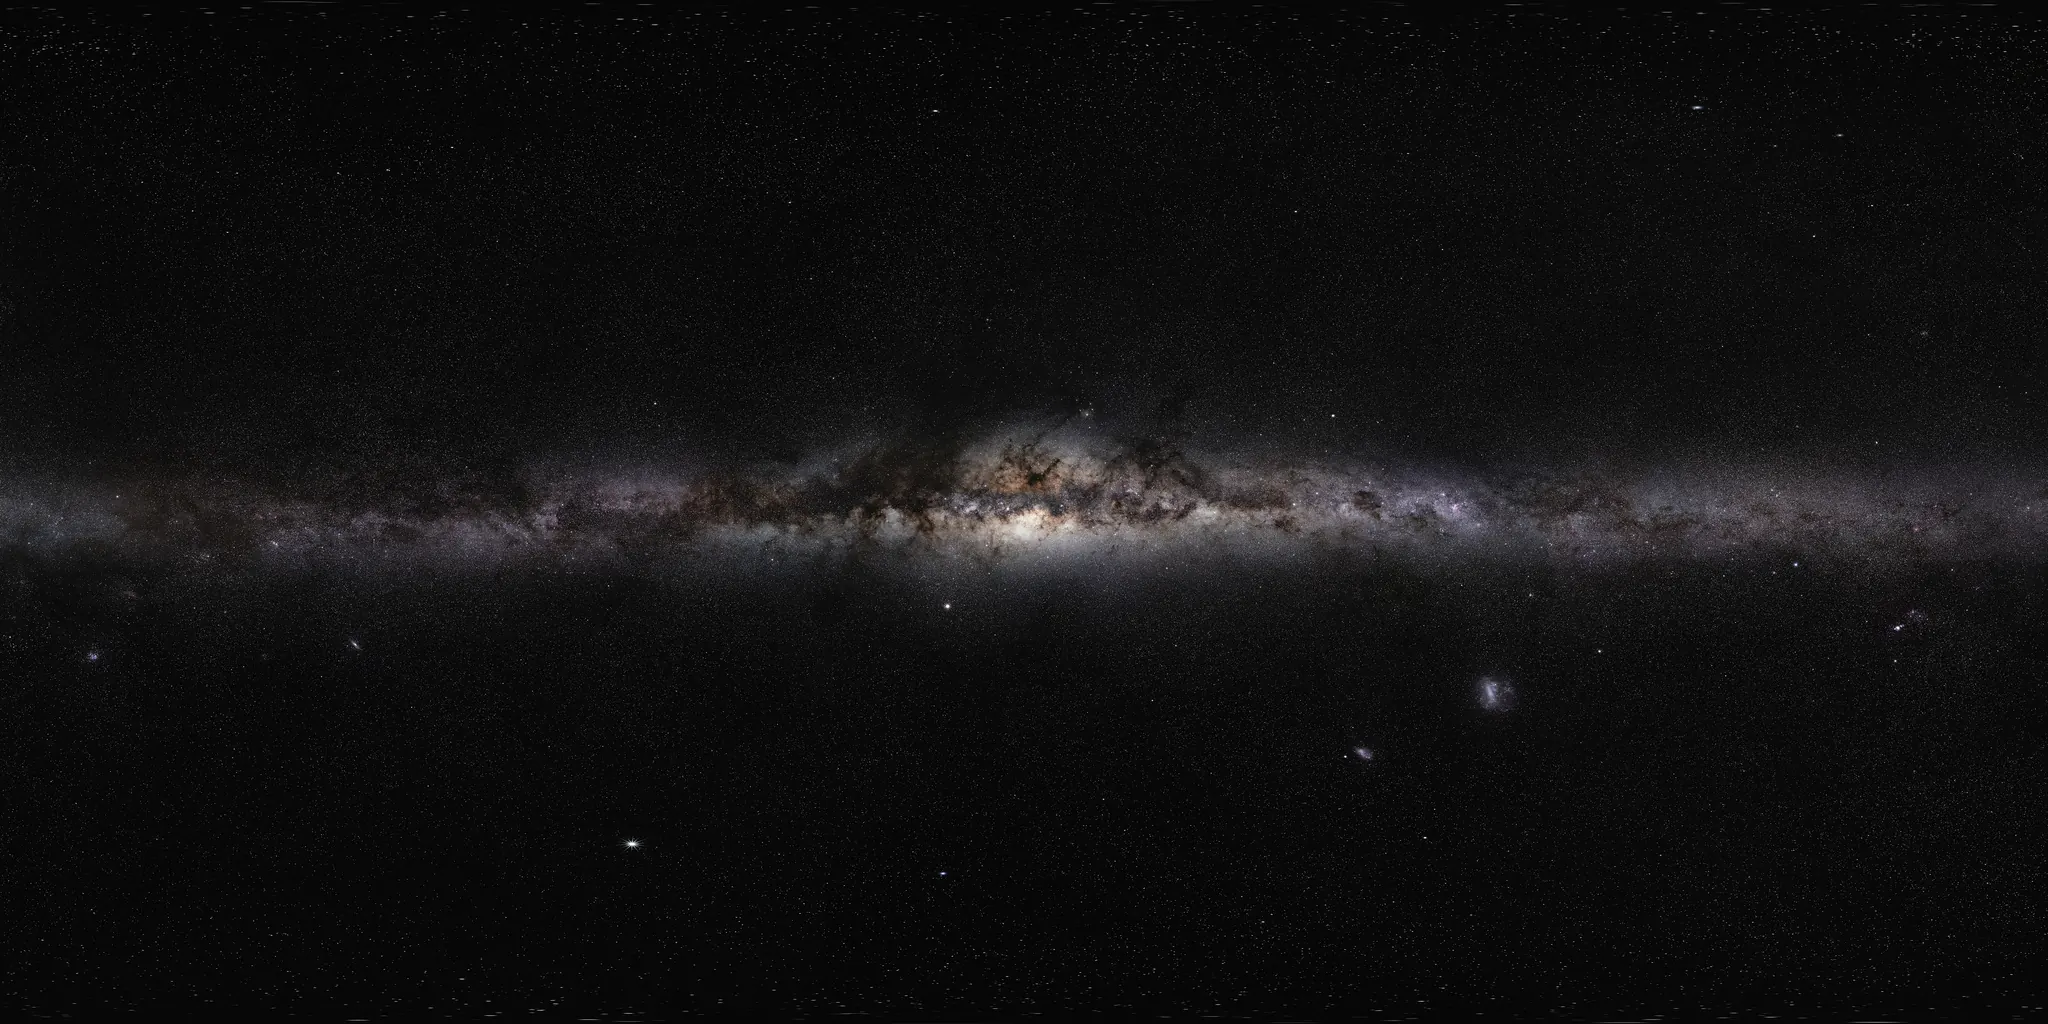
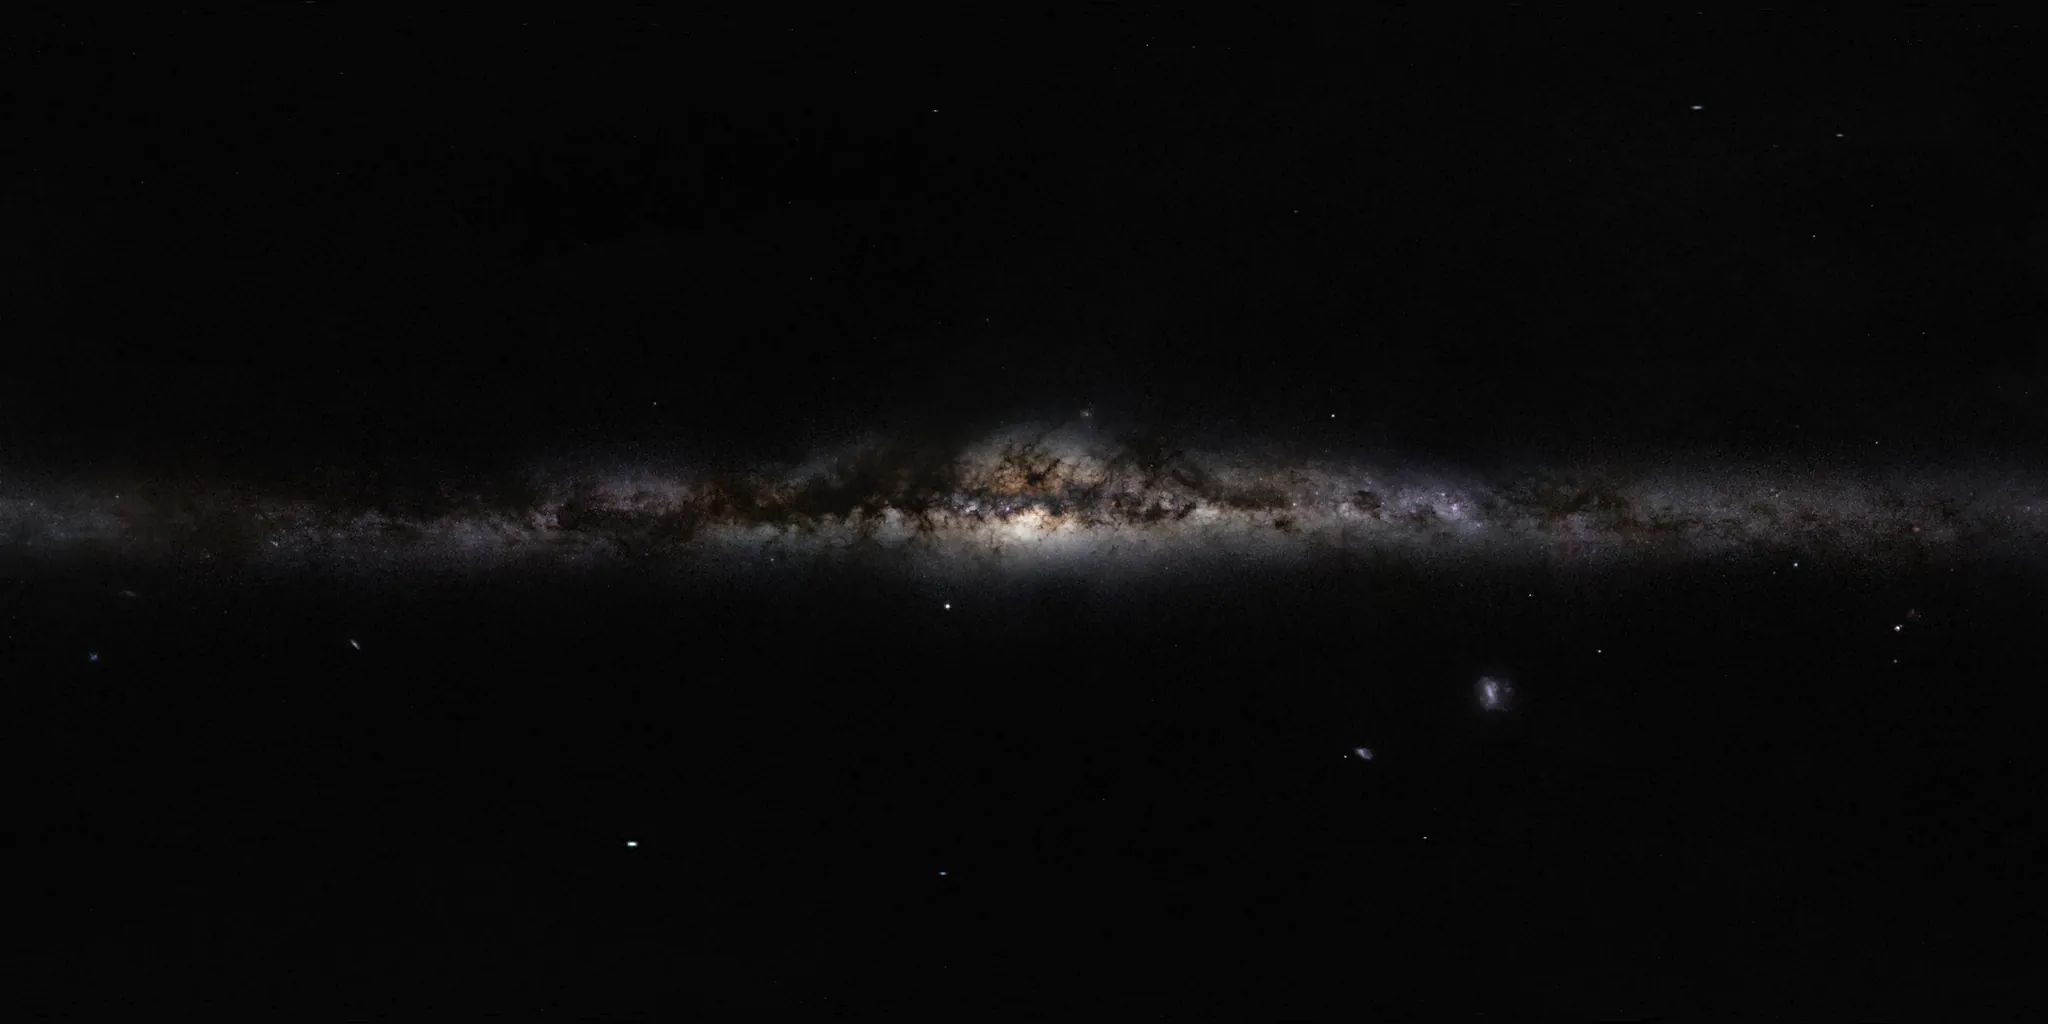
feat(web): add a day and night toggle for the globe
Show a Day and night tile next to Globe view while the globe is on, and a
matching command. Reuse the core subsolar point, keep the twilight tint and
daylight falloff to satellite imagery, let the theme's sky rise from the
horizon while zooming in, and drop the panorama's faint stars, which smear
near the galactic poles.

Changed region(s): [[0.0, 0.375, 1.0, 0.6562]]

diff --git a/apps/web/src/components/map/layers/globe/sunPosition.ts b/apps/web/src/components/map/layers/globe/sunPosition.ts
@@ -1,10 +1,8 @@
+import { subsolarPoint } from "@openmapx/core";
+
 /**
- * Where the Sun is overhead, using the U.S. Naval Observatory's low-precision
- * almanac (about 0.01° between 1950 and 2050):
- * https://aa.usno.navy.mil/faq/sun_approx
- *
- * Vectors use MapLibre's globe frame, where a point at longitude λ and
- * latitude φ on the unit sphere is (sin λ·cos φ, sin φ, cos λ·cos φ).
+ * Where the Sun and the sky are, in MapLibre's globe frame: a point at
+ * longitude λ and latitude φ on the unit sphere is (sin λ·cos φ, sin φ, cos λ·cos φ).
  */
 
 const RADIANS = Math.PI / 180;
@@ -13,35 +11,11 @@ const UNIX_EPOCH_JULIAN_DAY = 2440587.5;
 const J2000_JULIAN_DAY = 2451545;
 const MS_PER_DAY = 86_400_000;
 
-function daysSinceJ2000(date: Date): number {
-  return date.getTime() / MS_PER_DAY + UNIX_EPOCH_JULIAN_DAY - J2000_JULIAN_DAY;
-}
-
-function wrapRadians(angle: number): number {
-  const wrapped = angle % TWO_PI;
-  return wrapped < 0 ? wrapped + TWO_PI : wrapped;
-}
-
 /** Greenwich mean sidereal time as an angle in [0, 2π). */
 export function greenwichSiderealAngle(date: Date): number {
-  return wrapRadians((280.46061837 + 360.98564736629 * daysSinceJ2000(date)) * RADIANS);
-}
-
-/** The point on Earth with the Sun at its zenith, in degrees, longitude in [-180, 180). */
-export function subsolarPoint(date: Date): { lng: number; lat: number } {
-  const n = daysSinceJ2000(date);
-  const meanAnomaly = (357.529 + 0.98560028 * n) * RADIANS;
-  const meanLongitude = 280.459 + 0.98564736 * n;
-  const eclipticLongitude =
-    (meanLongitude + 1.915 * Math.sin(meanAnomaly) + 0.02 * Math.sin(2 * meanAnomaly)) * RADIANS;
-  const obliquity = (23.439 - 0.00000036 * n) * RADIANS;
-  const declination = Math.asin(Math.sin(obliquity) * Math.sin(eclipticLongitude));
-  const rightAscension = Math.atan2(
-    Math.cos(obliquity) * Math.sin(eclipticLongitude),
-    Math.cos(eclipticLongitude),
-  );
-  const longitude = wrapRadians(rightAscension - greenwichSiderealAngle(date) + Math.PI) - Math.PI;
-  return { lng: longitude / RADIANS, lat: declination / RADIANS };
+  const days = date.getTime() / MS_PER_DAY + UNIX_EPOCH_JULIAN_DAY - J2000_JULIAN_DAY;
+  const angle = ((280.46061837 + 360.98564736629 * days) * RADIANS) % TWO_PI;
+  return angle < 0 ? angle + TWO_PI : angle;
 }
 
 /** Unit vector from Earth's centre towards the Sun, in the globe frame. */

diff --git a/apps/web/src/components/map/layer-selector/layerPreviewSvgs.tsx b/apps/web/src/components/map/layer-selector/layerPreviewSvgs.tsx
@@ -340,3 +340,62 @@ export const globePreview: ReactNode = (
     <circle cx="40" cy="40" r="27" fill="none" stroke="#88c6fc" strokeWidth="1.1" opacity="0.5" />
   </svg>
 );
+
+export const globeLightingPreview: ReactNode = (
+  <svg
+    viewBox="0 0 80 80"
+    preserveAspectRatio="xMidYMid slice"
+    xmlns="http://www.w3.org/2000/svg"
+    width="100%"
+    height="100%"
+    role="img"
+    aria-hidden="true"
+  >
+    <defs>
+      <radialGradient id="globeLightingSun" cx="0.5" cy="0.5" r="0.5">
+        <stop offset="0" stopColor="#fff6dc" />
+        <stop offset="0.25" stopColor="#ffb45a" stopOpacity="0.7" />
+        <stop offset="1" stopColor="#ff8a2a" stopOpacity="0" />
+      </radialGradient>
+      <linearGradient id="globeLightingDay" x1="0" y1="0" x2="1" y2="0">
+        <stop offset="0" stopColor="#2a72b8" />
+        <stop offset="0.45" stopColor="#1f5f9e" />
+        <stop offset="0.58" stopColor="#c46a2c" stopOpacity="0.9" />
+        <stop offset="0.66" stopColor="#0b1a2e" />
+        <stop offset="1" stopColor="#060d18" />
+      </linearGradient>
+    </defs>
+    <rect x="-2" y="-2" width="84" height="84" fill="#03060c" />
+    <g fill="#dce8f8" opacity="0.55">
+      <circle cx="70" cy="66" r="0.6" />
+      <circle cx="64" cy="10" r="0.7" />
+      <circle cx="74" cy="38" r="0.5" />
+    </g>
+    <circle cx="11" cy="13" r="12" fill="url(#globeLightingSun)" />
+    <circle cx="44" cy="44" r="29" fill="#4d94ff" opacity="0.14" />
+    <circle cx="44" cy="44" r="27" fill="url(#globeLightingDay)" />
+    {/* land on the day side */}
+    <g fill="#3d8c5c">
+      <path d="M24 30l8-5 7 3 4 5-6 4-7-1-5-3Z" />
+      <path d="M22 48l7 1 3 6-3 7-6-2-2-7Z" />
+    </g>
+    {/* city lights on the night side */}
+    <g fill="#ffd27a">
+      <circle cx="56" cy="32" r="0.9" />
+      <circle cx="60" cy="36" r="0.7" />
+      <circle cx="58" cy="44" r="1" />
+      <circle cx="63" cy="48" r="0.6" />
+      <circle cx="55" cy="54" r="0.8" />
+      <circle cx="66" cy="40" r="0.6" />
+      <circle cx="61" cy="57" r="0.7" />
+    </g>
+    <path
+      d="M24 22a27 27 0 0 1 20-5"
+      fill="none"
+      stroke="#bfe0ff"
+      strokeWidth="1.4"
+      strokeLinecap="round"
+      opacity="0.75"
+    />
+  </svg>
+);

diff --git a/apps/web/src/components/map/layers/globe/sunPosition.test.ts b/apps/web/src/components/map/layers/globe/sunPosition.test.ts
@@ -1,35 +1,22 @@
+import { subsolarPoint } from "@openmapx/core";
 import { describe, expect, it } from "vitest";
-import { greenwichSiderealAngle, subsolarPoint, sunDirection } from "./sunPosition";
+import { greenwichSiderealAngle, sunDirection } from "./sunPosition";
 
 const RADIANS = Math.PI / 180;
 
-describe("subsolarPoint", () => {
-  it("puts the subsolar point on the equator at the March equinox", () => {
-    expect(subsolarPoint(new Date("2026-03-20T14:46:00Z")).lat).toBeCloseTo(0, 1);
-  });
-
-  it("reaches the tropics at the solstices", () => {
-    expect(subsolarPoint(new Date("2026-06-21T08:24:00Z")).lat).toBeCloseTo(23.44, 1);
-    expect(subsolarPoint(new Date("2026-12-21T20:50:00Z")).lat).toBeCloseTo(-23.44, 1);
-  });
-
-  it("follows the equation of time at noon UTC", () => {
-    // Early November the Sun runs about 16.4 minutes fast, so it has already
-    // crossed Greenwich at 12:00 UTC; mid-February it runs about 14.2 minutes slow.
-    expect(subsolarPoint(new Date("2026-11-03T12:00:00Z")).lng).toBeCloseTo(-4.1, 0);
-    expect(subsolarPoint(new Date("2026-02-11T12:00:00Z")).lng).toBeCloseTo(3.55, 0);
-  });
-
-  it("keeps the longitude in [-180, 180) across the antimeridian", () => {
-    const { lng } = subsolarPoint(new Date("2026-11-03T00:00:00Z"));
-    expect(lng).toBeGreaterThanOrEqual(-180);
-    expect(lng).toBeLessThan(180);
-    expect(Math.abs(lng)).toBeGreaterThan(170);
-  });
-});
-
 describe("sunDirection", () => {
-  it("returns the subsolar point as a unit vector in MapLibre's globe frame", () => {
+  it("follows the seasons", () => {
+    expect(sunDirection(new Date("2026-06-21T08:24:00Z"))[1]).toBeCloseTo(
+      Math.sin(23.44 * RADIANS),
+      3,
+    );
+    expect(sunDirection(new Date("2026-12-21T20:50:00Z"))[1]).toBeCloseTo(
+      -Math.sin(23.44 * RADIANS),
+      3,
+    );
+  });
+
+  it("points at the subsolar point in MapLibre's globe frame", () => {
     const date = new Date("2026-06-21T12:00:00Z");
     const { lng, lat } = subsolarPoint(date);
     const expected = [

diff --git a/apps/web/src/components/command-palette/useCommandSources.test.tsx b/apps/web/src/components/command-palette/useCommandSources.test.tsx
@@ -2,7 +2,7 @@
 
 import { IntegrationRegistry } from "@openmapx/integration-framework";
 import { IntegrationRegistryContext } from "@openmapx/integration-framework/react";
-import { renderHook } from "@testing-library/react";
+import { act, renderHook } from "@testing-library/react";
 import type { ReactNode } from "react";
 import { afterEach, describe, expect, it, vi } from "vitest";
 
@@ -38,6 +38,7 @@ import {
   isOverlayActive,
   type OverlayStoreBase,
   registerOverlayEntry,
+  useLayerStore,
 } from "@openmapx/core";
 import { useCommandSources } from "./useCommandSources";
 
@@ -137,5 +138,30 @@ describe("useCommandSources map orientation commands", () => {
 
     expect(out.find((c) => c.id === "actions.alignToStreets")).toBeUndefined();
     expect(out.find((c) => c.id === "actions.northUp")).toBeUndefined();
+  });
+});
+
+describe("useCommandSources globe commands", () => {
+  afterEach(() => {
+    act(() => useLayerStore.setState({ globeView: false, globeLighting: true }));
+  });
+
+  it("offers day and night only with globe view and toggles it", () => {
+    useLayerStore.setState({ globeView: false, globeLighting: true });
+    const offGlobe = renderHook(() => useCommandSources({ openShortcutsDialog: () => {} }), {
+      wrapper,
+    }).result.current;
+    expect(offGlobe.find((c) => c.id === "layers.globe-lighting")).toBeUndefined();
+
+    act(() => useLayerStore.setState({ globeView: true }));
+    const { result } = renderHook(() => useCommandSources({ openShortcutsDialog: () => {} }), {
+      wrapper,
+    });
+    const command = result.current.find((c) => c.id === "layers.globe-lighting");
+    expect(command?.isActive?.()).toBe(true);
+    act(() => {
+      command?.run();
+    });
+    expect(useLayerStore.getState().globeLighting).toBe(false);
   });
 });

diff --git a/apps/web/src/components/map/layers/globe/globeShaders.ts b/apps/web/src/components/map/layers/globe/globeShaders.ts
@@ -100,7 +100,10 @@ void main() {
     vec3 galaxy = sampleWrapped(u_milky_way, galacticUv(u_galactic * ray)).rgb;
     space += pow(max(galaxy - 0.035, vec3(0.0)), vec3(1.4)) * 0.6 * u_galaxy;
   }
-  vec3 background = mix(u_theme_sky, space, u_space);
+  // Zooming in, the theme's sky rises from the horizon as space recedes
+  // upwards, as it does seen from a descending spacecraft. Fully space at u_space = 1.
+  float spaceWeight = clamp(2.0 * u_space - exp(-above / 0.08), 0.0, 1.0);
+  vec3 background = mix(u_theme_sky, space, spaceWeight);
   background += (glowColour * haze + vec3(0.72, 0.86, 1.0) * rim) * sunSide * u_surface;
   background += sunGlow(ray) * u_lighting * u_surface;
 
@@ -111,7 +114,7 @@ void main() {
   float day = smoothstep(-0.10, 0.12, mu);
   // Imagery dims towards the terminator like real daylight; maps stay evenly
   // lit across the whole day side so they remain legible.
-  float daylight = mix(1.0, 0.55 + 0.45 * sqrt(max(mu, 0.0)), u_day_falloff);
+  float daylight = mix(1.0, 0.75 + 0.25 * sqrt(max(mu, 0.0)), u_day_falloff);
   float brightness = u_night + (1.0 - u_night) * day * daylight;
   brightness = mix(1.0, brightness, u_lighting);
 
@@ -119,7 +122,9 @@ void main() {
   // limb haze, then city lights as emitted light.
   vec3 colour = vec3(0.0);
   float alpha = 1.0 - brightness;
-  float tint = exp(-pow(mu / 0.07, 2.0)) * u_lighting * 0.16;
+  // A warm band at the terminator reads as sunset on imagery, but as a
+  // muddy stain on a cartographic map.
+  float tint = exp(-pow(mu / 0.045, 2.0)) * u_lighting * u_day_falloff * 0.05;
   colour = TWILIGHT * tint + colour * (1.0 - tint);
   alpha = tint + alpha * (1.0 - tint);
   float limbHaze = exp(-5.0 * halfChord) * 0.5 * mix(1.0, 0.2 + 0.8 * smoothstep(-0.2, 0.3, mu), u_lighting);

diff --git a/apps/web/src/components/map/layer-selector/LayerDetailsPanel.tsx b/apps/web/src/components/map/layer-selector/LayerDetailsPanel.tsx
@@ -12,7 +12,7 @@ import { useTranslations } from "next-intl";
 import type { ReactNode } from "react";
 import { useOverlayZoomGate } from "@/integration-api/overlay/overlayZoomGate";
 import { LayerDetailsTile } from "./LayerDetailsTile";
-import { globePreview } from "./layerPreviewSvgs";
+import { globeLightingPreview, globePreview } from "./layerPreviewSvgs";
 import { BASE_LAYER_OPTIONS } from "./layerSelectorConfig";
 import type { GeneratedLayerEntry } from "./useLayerSelectorConfig";
 import { useLayerSelectorConfig } from "./useLayerSelectorConfig";
@@ -98,6 +98,8 @@ export function LayerDetailsPanel({ onClose, variant = "popover" }: LayerDetails
   const setActiveLayer = useLayerStore((s) => s.setActiveLayer);
   const globeView = useLayerStore((s) => s.globeView);
   const setGlobeView = useLayerStore((s) => s.setGlobeView);
+  const globeLighting = useLayerStore((s) => s.globeLighting);
+  const setGlobeLighting = useLayerStore((s) => s.setGlobeLighting);
   const measureActive = useMeasurementStore((s) => s.isActive);
   const travelTimeActive = useTravelTimeStore((s) => s.isActive);
   const { isAvailable } = useCapabilities();
@@ -193,6 +195,14 @@ export function LayerDetailsPanel({ onClose, variant = "popover" }: LayerDetails
         labelWidth={labelWidth}
         onClick={() => setGlobeView(!globeView)}
       />
+      {globeView ? (
+        <LayerDetailsTile
+          item={{ preview: globeLightingPreview, selected: globeLighting }}
+          label={t("globeLighting")}
+          labelWidth={labelWidth}
+          onClick={() => setGlobeLighting(!globeLighting)}
+        />
+      ) : null}
     </TileGrid>
   );
 

diff --git a/apps/web/src/components/command-palette/useCommandSources.ts b/apps/web/src/components/command-palette/useCommandSources.ts
@@ -74,6 +74,7 @@ export function useCommandSources({ openShortcutsDialog }: UseCommandSourcesOpti
   const activeLayer = useLayerStore((s) => s.activeLayer);
   const setActiveLayer = useLayerStore((s) => s.setActiveLayer);
   const globeView = useLayerStore((s) => s.globeView);
+  const globeLighting = useLayerStore((s) => s.globeLighting);
 
   return useMemo<Command[]>(() => {
     const out: Command[] = [];
@@ -115,6 +116,22 @@ export function useCommandSources({ openShortcutsDialog }: UseCommandSourcesOpti
         return false;
       },
     });
+
+    // Day and night only applies to the globe, so it is offered only there.
+    if (globeView) {
+      out.push({
+        id: "layers.globe-lighting",
+        group: "layers",
+        label: t("cmdToggleGlobeLighting"),
+        iconKey: "globe-lighting",
+        isActive: () => globeLighting,
+        run: () => {
+          const current = useLayerStore.getState().globeLighting;
+          useLayerStore.getState().setGlobeLighting(!current);
+          return false;
+        },
+      });
+    }
 
     // Overlays
     for (const integration of integrations.getEnabled()) {
@@ -357,6 +374,7 @@ export function useCommandSources({ openShortcutsDialog }: UseCommandSourcesOpti
     activeLayer,
     setActiveLayer,
     globeView,
+    globeLighting,
     integrations,
     isSignedIn,
     parkedLocations,

diff --git a/apps/web/src/components/map/layer-selector/LayerPanels.test.tsx b/apps/web/src/components/map/layer-selector/LayerPanels.test.tsx
@@ -50,10 +50,26 @@ afterEach(() => {
     useMeasurementStore.getState().deactivate();
     useTravelTimeStore.getState().deactivate();
     useLayerStore.getState().setActiveLayer("default");
+    useLayerStore.setState({ globeView: false, globeLighting: true });
   });
 });
 
 describe("layer panels", () => {
+  it("offers day and night only while globe view is on, selected by default", () => {
+    act(() => useLayerStore.setState({ globeView: false, globeLighting: true }));
+    render(<LayerDetailsPanel variant="sheet" onClose={() => undefined} />);
+    expect(screen.queryByRole("button", { name: "globeLighting" })).toBeNull();
+
+    act(() => fireEvent.click(screen.getByRole("button", { name: "globeView" })));
+    const tile = screen.getByRole("button", { name: "globeLighting" });
+    expect(tile.getAttribute("aria-pressed")).toBe("true");
+    act(() => fireEvent.click(tile));
+    expect(useLayerStore.getState().globeLighting).toBe(false);
+    expect(screen.getByRole("button", { name: "globeLighting" }).getAttribute("aria-pressed")).toBe(
+      "false",
+    );
+  });
+
   it("lets phone users operate both tools and select one basemap", () => {
     render(<LayerDetailsPanel variant="sheet" onClose={() => undefined} />);
     act(() => fireEvent.click(screen.getByRole("button", { name: "measurement" })));

diff --git a/apps/web/src/components/command-palette/commandIcons.tsx b/apps/web/src/components/command-palette/commandIcons.tsx
@@ -1,6 +1,7 @@
 "use client";
 
 import BookmarkBorderIcon from "@mui/icons-material/BookmarkBorder";
+import Brightness4Icon from "@mui/icons-material/Brightness4";
 import DirectionsIcon from "@mui/icons-material/Directions";
 import ExpandMoreIcon from "@mui/icons-material/ExpandMore";
 import ExploreIcon from "@mui/icons-material/Explore";
@@ -30,6 +31,7 @@ const ICONS: Record<string, ReactNode> = {
   "layer-terrain": <TerrainIcon fontSize="small" />,
   "layer-cycling": <ExploreIcon fontSize="small" />,
   globe: <PublicIcon fontSize="small" />,
+  "globe-lighting": <Brightness4Icon fontSize="small" />,
   overlay: <LayersIcon fontSize="small" />,
   panel: <NearMeIcon fontSize="small" />,
   saved: <BookmarkBorderIcon fontSize="small" />,

diff --git a/docs/docs/features/map-layers.md b/docs/docs/features/map-layers.md
@@ -39,6 +39,16 @@ source isn't configured on your deployment shows no imagery. While an offline
 package is active, Default and Terrain show the flat street map. The picker also has a
 **Globe view** toggle that switches the map from a flat projection to a 3D globe.
 
+Zoomed out, the globe sits in dark space with stars and the Milky Way, and a
+blue atmosphere glows around it. **Day and night**, on by default and shown in
+the picker while the globe is on, lights the globe from the Sun's real position:
+the night side darkens, a warm band marks the twilight, and the Sun appears in the
+sky. With satellite imagery the night side also shows city lights. Labels, routes
+and overlays are never darkened. The effect fades out between zoom 5 and 8. The
+Milky Way (ESO/S. Brunier, CC BY 4.0) and city lights (NASA Black Marble 2016, a
+yearly composite rather than a live view) are bundled with the app, so they make
+no request to another service; they are not available offline.
+
 ## Places while browsing
 
 The owned street map introduces a small selection of named restaurants, cafés,

diff --git a/apps/web/public/globe/README.md b/apps/web/public/globe/README.md
@@ -40,11 +40,15 @@ The renderer turns it into Earth's frame using sidereal time.
 - Credit: ESO/S. Brunier.
 - Licence: [Creative Commons Attribution 4.0 International](https://creativecommons.org/licenses/by/4.0/)
   ([ESO copyright notice](https://www.eso.org/public/copyright/)). Changes:
-  resized and recompressed; brightness is reduced when drawn.
+  resized, recompressed, and faint point stars removed with a morphological
+  opening (the renderer draws its own sharp stars; photographed ones smear
+  where the panorama is stretched near the galactic poles). Brightness is
+  reduced when drawn. The changes are stated here and on the app's licences
+  page.
 
 Prepared with:
 
 ```sh
-magick eso0932a.jpg -filter Lanczos -resize '2048x1024!' milky.png
-cwebp -q 78 -m 6 milky.png -o milky-way.webp
+magick eso0932a.jpg -filter Lanczos -resize '4096x2048!' -morphology Open Disk:1.5 -resize '2048x1024!' milky.png
+cwebp -q 80 -m 6 milky.png -o milky-way.webp
 ```
